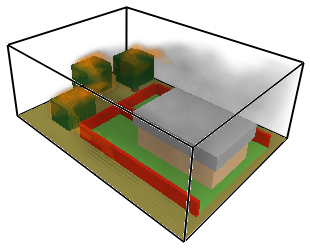
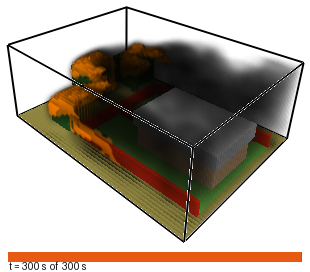
exp 12 gif: visible smoke, ember frames, and a time bar
SMOKEPROP 1800 for wick4 (it burns less than wick3c, whose value was 300). 23 frames with 8 s spacing through the ember window. Time bar drawn into every frame.

diff --git a/experiments/12_no_ladder_tree/smoke_sweep.py b/experiments/12_no_ladder_tree/smoke_sweep.py
@@ -1,0 +1,55 @@
+"""Pick a smoke extinction coefficient for wick4 by measuring, not guessing.
+
+SMOKEPROP = 300 was tuned on experiment 07's soot density. wick4 burns less, so
+its plume is fainter and at 300 it is nearly invisible. Render one smoky frame
+at several values and count the grey pixels (smoke reads as mid grey, clearly
+not white background and not the black of dense soot).
+
+    python3 smoke_sweep.py
+"""
+import os, shutil, subprocess, sys
+
+_d = os.path.dirname(os.path.abspath(__file__))
+while not os.path.isfile(os.path.join(_d, "paths.py")):
+    _d = os.path.dirname(_d)
+sys.path.insert(0, _d)
+
+import numpy as np
+from PIL import Image
+
+# import the shared renderer with wick4 selected; it lives in experiment 07
+sys.path.insert(0, os.path.join(_d, "experiments", "07_wick3_house_ignition"))
+sys.argv = [sys.argv[0], "wick4", "wick4", "20,40,60,80,100,120,160,200,240,280,300"]
+from ign_colour_render import (CASE, SMV, SMV_FILE, SMV_KEEP, ZOOM_INI,  # noqa
+                               frame_colours, variant_smv)
+import json
+
+T = 160
+state = json.load(open(os.path.join(CASE, "ign_state.json")))
+variant_smv(frame_colours(state[str(T)]), SMV_FILE)
+
+out = os.path.join(CASE, "smokesweep")
+shutil.rmtree(out, ignore_errors=True)
+os.makedirs(out)
+
+for v in (300, 900, 1800, 3600):
+    body = "RENDERDIR\n smokesweep\nUNLOADALL\nLOADINIFILE\n %s\n" % os.path.basename(ZOOM_INI)
+    for f in ("wick4_1_1.s3d", "wick4_1_3.s3d", "wick4_1.prt5"):
+        body += "LOADFILE\n %s\n" % f
+    body += "SETVIEWPOINT\n iso_b\nSMOKEPROP\n %g\n" % v
+    body += "SETTIMEVAL\n %d.0\nRENDERONCE\n sw_%04d\n" % (T, v)
+    open(os.path.join(CASE, "wick4.ssf"), "w").write(body)
+    subprocess.run([SMV, "-runscript", "wick4"], cwd=CASE,
+                   stdout=subprocess.DEVNULL, stderr=subprocess.DEVNULL,
+                   stdin=subprocess.DEVNULL, timeout=2400)
+    p = os.path.join(out, "sw_%04d.png" % v)
+    if not os.path.exists(p):
+        print("SMOKEPROP %-6g NO FRAME" % v)
+        continue
+    a = np.asarray(Image.open(p).convert("RGB"), int)[:446]
+    grey = (a.std(axis=2) < 8) & (a.min(axis=2) > 60) & (a.max(axis=2) < 240)
+    white = a.min(axis=2) > 245
+    print("SMOKEPROP %-6g grey (smoke) %6d px   background %6d px"
+          % (v, int(grey.sum()), int(white.sum())))
+
+shutil.copy(SMV_KEEP, SMV_FILE)

diff --git a/experiments/07_wick3_house_ignition/ign_colour_render.py b/experiments/07_wick3_house_ignition/ign_colour_render.py
@@ -55,7 +55,9 @@ HOTTEST = 1400.0
 # t=300, where every surface is ignited: 2500/1200/600 produced no usable frame,
 # 300 leaves 13737 warm (ignited) pixels and still shows the plume as grey haze,
 # 0 leaves 11977 and almost no smoke.  300 keeps both.
-SMOKEPROP = 300.0
+# per case: experiment 07 wanted 300 for this effect, wick4 needs 1800 because
+# it burns less so its plume is fainter.  Pass as the 4th argument.
+SMOKEPROP = float(sys.argv[4]) if len(sys.argv) > 4 else 300.0
 
 ZOOM_INI = os.path.join(CASE, CHID + "_view.ini")
 # Viewpoint zoom.  1.0 is Smokeview's default and clips the foreground; 0.5
@@ -178,6 +180,30 @@ def white_box(paths, pad=6):
             min(w, hi_x + pad), min(h, hi_y + pad))
 
 
+def add_timebar(path, t, t_end):
+    """Draw a progress bar along the bottom, so the animation shows its time.
+
+    The bar fills from left to right as t approaches t_end, with the times
+    written beside it.  Kept in the image rather than inferred from the frame
+    order, so a single exported frame still says when it is.
+    """
+    from PIL import Image, ImageDraw
+
+    im = Image.open(path).convert("RGB")
+    w, h = im.size
+    canvas = Image.new("RGB", (w, h + 24), (255, 255, 255))
+    canvas.paste(im, (0, 0))
+    d = ImageDraw.Draw(canvas)
+    y0, y1 = h + 4, h + 13
+    d.rectangle([8, y0, w - 9, y1], outline=(110, 110, 110))
+    frac = 0.0 if not t_end else max(0.0, min(1.0, t / float(t_end)))
+    x = 8 + int((w - 18) * frac)
+    if x > 8:
+        d.rectangle([8, y0, x, y1], fill=(230, 90, 20))
+    d.text((9, h + 12), "t = %d s  of  %d s" % (t, t_end), fill=(20, 20, 20))
+    canvas.save(path)
+
+
 def show(v):
     return "--" if v is None else "%.0f" % v
 
@@ -223,8 +249,11 @@ if __name__ == "__main__":
 
     from PIL import Image
     box = white_box(paths)
-    for p in paths:
+    t_end = max(TIMES)
+    for p, t in zip(paths, [t for t in TIMES
+                            if os.path.exists(os.path.join(out, "c_%03d.png" % t))]):
         Image.open(p).convert("RGB").crop(box).save(p)
+        add_timebar(p, t, t_end)
     ims = [Image.open(p).convert("RGB") for p in paths]
     ims[0].save(GIF, save_all=True, append_images=ims[1:], duration=600, loop=0)
     print("%s\n  %d frames, %d bytes" % (GIF, len(ims), os.path.getsize(GIF)))
